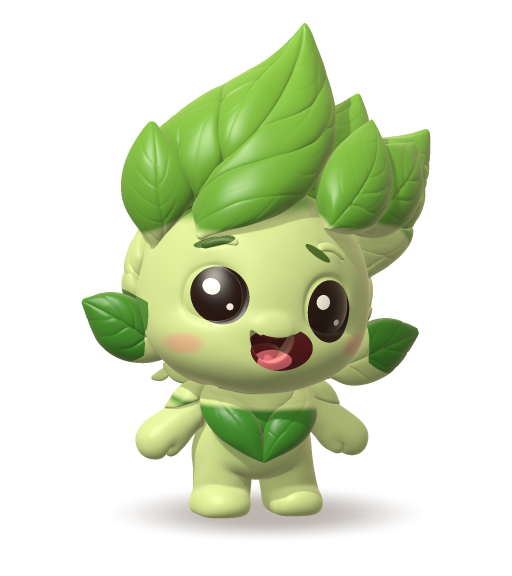
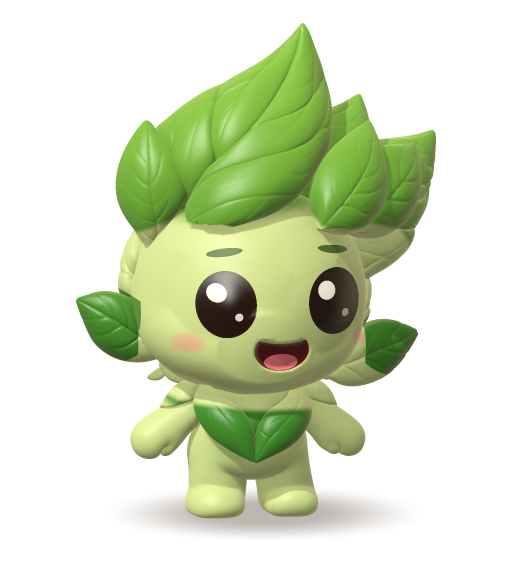
Leafling: replace the lopsided sculpted face with a level one
The owner's Meshy model has a crooked face (the left eye a third of an eye
higher and larger than the right, the features left of the head's center),
while the head and body are level. tools/artgen now smooths the sculpted
eyes, brows and mouth onto a quadratic fitted to the rest of the face, then
sculpts and paints a level face centered on the head: raised glossy eyes, a
recessed open smile with a tongue, short brows, and blush kept to the skin.
The render turn is 0.16 rad. Research R17 and the source record say so.

Claude-Session: https://claude.ai/code/session_01HvNa78eyNRkgpNa3EHmuvn

diff --git a/tools/artgen/Leafling.cs b/tools/artgen/Leafling.cs
@@ -22,7 +22,7 @@ namespace Bloomlings.ArtGen
 
         private static readonly V3 Key = new V3(-0.45, 0.7, 0.7).Normalized;
         private static readonly V3 Back = new V3(0.25, 0.45, -1).Normalized;
-        private static readonly Rotation Turn = new Rotation(0.22);
+        private static readonly Rotation Turn = new Rotation(0.16);
 
         /// <summary>The model file, relative to the repository root.</summary>
         public const string ModelPath = "tools/artgen/models/leafling.fbx";
@@ -143,8 +143,242 @@ namespace Bloomlings.ArtGen
                 model.N[i] = new V3(n.X, n.Z, -n.Y).Normalized;
             }
 
+            Reface(model);
             cached = model;
             return model;
+        }
+
+        // ---- The face ----
+        //
+        // The sculpted face is lopsided: Meshy put the left eye higher and larger than the right, and the eyes, brows and
+        // mouth left of the head's center, while the head and body are level. So the tool smooths the sculpted features
+        // away along the head's own curve and gives the Leafling a level face, centered on the head: two raised glossy
+        // eyes, a recessed open smile, short brows and blush (Paint draws their colors on the same places).
+
+        /// <summary>The old sculpted features (front view): eyes, mouth and brows, each smoothed away.</summary>
+        private static readonly (double X, double Y, double Rx, double Ry)[] OldFeatures =
+        {
+            (-0.145, 0.47, 0.07, 0.074),
+            (0.083, 0.432, 0.066, 0.08),
+            (-0.026, 0.36, 0.092, 0.064),
+            (-0.15, 0.577, 0.065, 0.035),
+            (0.06, 0.548, 0.058, 0.042),
+        };
+
+        /// <summary>The head's front (front view), where the smooth face surface is fitted.</summary>
+        private static readonly (double X, double Y, double Rx, double Ry) FaceArea = (-0.03, 0.45, 0.3, 0.19);
+
+        /// <summary>The new eyes: centers and radii (front view), mirrored about the head's center line x = 0.</summary>
+        private static readonly (double X, double Y, double Rx, double Ry)[] Eyes = { (-0.115, 0.452, 0.06, 0.068), (0.115, 0.452, 0.06, 0.068) };
+
+        private const double MouthX = 0;
+        private const double MouthY = 0.355;
+
+        /// <summary>Whether a point (front view) is inside the open mouth: a smile, flat-curved on top and round below.</summary>
+        private static bool InMouth(double x, double y) =>
+            Ellipse(x - MouthX, y - MouthY, 0.058, 0.042) < 1 && y < 0.37 + (3 * (x - MouthX) * (x - MouthX));
+
+        /// <summary>The new face's relief over the smooth head surface: raised eyes and a recessed mouth.</summary>
+        private static double Relief(double x, double y)
+        {
+            double z = 0;
+            foreach ((double ex, double ey, double rx, double ry) in Eyes)
+            {
+                double e = Ellipse(x - ex, y - ey, rx, ry);
+                if (e < 1)
+                {
+                    double k = 1 - (e * e);
+                    z += 0.012 * k * k;
+                }
+            }
+
+            // The mouth: recessed in its own smile shape, with soft edges.
+            double m = Ellipse(x - MouthX, y - MouthY, 0.058, 0.042);
+            double top = y - (0.37 + (3 * (x - MouthX) * (x - MouthX)));
+            if (m < 1.1 && top < 0.006)
+            {
+                z -= 0.014 * (1 - Sdf.Smoothstep(0.8, 1.1, m)) * (1 - Sdf.Smoothstep(-0.008, 0.006, top));
+            }
+
+            return z;
+        }
+
+        /// <summary>How much of a point (front view) lies on an old sculpted feature: 1 inside one, 0 clear of them all.</summary>
+        private static double OnOldFeature(double x, double y)
+        {
+            double w = 0;
+            foreach ((double fx, double fy, double rx, double ry) in OldFeatures)
+            {
+                w = Math.Max(w, 1 - Sdf.Smoothstep(1, 1.3, Ellipse(x - fx, y - fy, rx, ry)));
+            }
+
+            return w;
+        }
+
+        private static void Reface(Model m)
+        {
+            var vertexNormal = new V3[m.P.Length];
+            for (int i = 0; i < m.T.Length; i++)
+            {
+                vertexNormal[m.T[i]] = vertexNormal[m.T[i]] + m.N[i];
+            }
+
+            // The head's front as a height map: the front-most skin in 0.01 cells (one sample per cell, so dense areas do
+            // not outweigh sparse ones). A quadratic height z = f(x, y) is fitted to the cells of the face clear of the old
+            // features: the head is flattened in front and turned a little to its left, and the fit follows it.
+            const double cell = 0.01;
+            const int cols = 70;
+            const int rows = 40;
+            var front = new double[cols * rows];
+            Array.Fill(front, double.NegativeInfinity);
+            for (int i = 0; i < m.P.Length; i++)
+            {
+                V3 p = m.P[i];
+                int cx = (int)Math.Floor((p.X + 0.35) / cell);
+                int cy = (int)Math.Floor((p.Y - 0.25) / cell);
+                if (cx >= 0 && cy >= 0 && cx < cols && cy < rows && p.Z > 0 && Core(p) <= 0.01)
+                {
+                    front[(cy * cols) + cx] = Math.Max(front[(cy * cols) + cx], p.Z);
+                }
+            }
+
+            var ata = new double[6, 6];
+            var atb = new double[6];
+            var basis = new double[6];
+            for (int cy = 0; cy < rows; cy++)
+            {
+                for (int cx = 0; cx < cols; cx++)
+                {
+                    double z = front[(cy * cols) + cx];
+                    double x = -0.35 + ((cx + 0.5) * cell);
+                    double y = 0.25 + ((cy + 0.5) * cell);
+                    if (double.IsNegativeInfinity(z) || z < 0.1 || Ellipse(x - FaceArea.X, y - FaceArea.Y, FaceArea.Rx, FaceArea.Ry) > 1 || OnOldFeature(x, y) > 0)
+                    {
+                        continue;
+                    }
+
+                    Quadratic(x, y, basis);
+                    for (int a = 0; a < 6; a++)
+                    {
+                        atb[a] += basis[a] * z;
+                        for (int b = 0; b < 6; b++)
+                        {
+                            ata[a, b] += basis[a] * basis[b];
+                        }
+                    }
+                }
+            }
+
+            double[] q = Solve(ata, atb);
+            double Smooth(double x, double y)
+            {
+                Quadratic(x, y, basis);
+                double z = 0;
+                for (int a = 0; a < 6; a++)
+                {
+                    z += q[a] * basis[a];
+                }
+
+                return z;
+            }
+
+            // The face skin: the old features flattened onto the smooth surface, then the new relief added.
+            const double h = 0.002;
+            var moved = new V3?[m.P.Length];
+            for (int i = 0; i < m.P.Length; i++)
+            {
+                V3 p = m.P[i];
+                if (Ellipse(p.X - FaceArea.X, p.Y - FaceArea.Y, FaceArea.Rx, FaceArea.Ry) > 1.1 || Core(p) > 0.03 || p.Z < Smooth(p.X, p.Y) - 0.1)
+                {
+                    continue;
+                }
+
+                double w = OnOldFeature(p.X, p.Y);
+                double relief = Relief(p.X, p.Y);
+                if (w <= 0 && relief == 0)
+                {
+                    continue;
+                }
+
+                double smooth = Smooth(p.X, p.Y);
+                m.P[i] = new V3(p.X, p.Y, Sdf.Mix(p.Z, smooth, w) + relief);
+                var smoothNormal = new V3(-(Smooth(p.X + h, p.Y) - Smooth(p.X - h, p.Y)) / (2 * h), -(Smooth(p.X, p.Y + h) - Smooth(p.X, p.Y - h)) / (2 * h), 1).Normalized;
+                V3 n = V3.Mix(vertexNormal[i].Normalized, smoothNormal, w).Normalized;
+                double rx = (Relief(p.X + h, p.Y) - Relief(p.X - h, p.Y)) / (2 * h);
+                double ry = (Relief(p.X, p.Y + h) - Relief(p.X, p.Y - h)) / (2 * h);
+                moved[i] = (n - new V3(rx, ry, 0)).Normalized;
+            }
+
+            for (int i = 0; i < m.T.Length; i++)
+            {
+                if (moved[m.T[i]] is V3 normal)
+                {
+                    m.N[i] = normal;
+                }
+            }
+        }
+
+        /// <summary>The terms of a quadratic height in (x, y), centered on the face.</summary>
+        private static void Quadratic(double x, double y, double[] b)
+        {
+            double u = (x - FaceArea.X) / FaceArea.Rx;
+            double v = (y - FaceArea.Y) / FaceArea.Ry;
+            b[0] = 1;
+            b[1] = u;
+            b[2] = v;
+            b[3] = u * u;
+            b[4] = u * v;
+            b[5] = v * v;
+        }
+
+        /// <summary>Solves a small linear system by Gaussian elimination with partial pivoting.</summary>
+        private static double[] Solve(double[,] a, double[] b)
+        {
+            int n = b.Length;
+            var m = (double[,])a.Clone();
+            var r = (double[])b.Clone();
+            for (int col = 0; col < n; col++)
+            {
+                int pivot = col;
+                for (int row = col + 1; row < n; row++)
+                {
+                    if (Math.Abs(m[row, col]) > Math.Abs(m[pivot, col]))
+                    {
+                        pivot = row;
+                    }
+                }
+
+                for (int k = 0; k < n; k++)
+                {
+                    (m[col, k], m[pivot, k]) = (m[pivot, k], m[col, k]);
+                }
+
+                (r[col], r[pivot]) = (r[pivot], r[col]);
+                for (int row = col + 1; row < n; row++)
+                {
+                    double f = m[row, col] / m[col, col];
+                    for (int k = col; k < n; k++)
+                    {
+                        m[row, k] -= f * m[col, k];
+                    }
+
+                    r[row] -= f * r[col];
+                }
+            }
+
+            var x = new double[n];
+            for (int row = n - 1; row >= 0; row--)
+            {
+                double s = r[row];
+                for (int k = row + 1; k < n; k++)
+                {
+                    s -= m[row, k] * x[k];
+                }
+
+                x[row] = s / m[row, row];
+            }
+
+            return x;
         }
 
         /// <summary>Model space to view space: turned about the vertical, tilted 6° toward the viewer (z toward the camera).</summary>
@@ -152,6 +386,7 @@ namespace Bloomlings.ArtGen
         {
             (double x, double z) = Turn.Apply(p.X, p.Z);
             const double tilt = 0.105;
+
             double y = (p.Y * Math.Cos(tilt)) - (z * Math.Sin(tilt));
             double zz = (p.Y * Math.Sin(tilt)) + (z * Math.Cos(tilt));
             return new V3(x, y, zz);
@@ -361,25 +596,25 @@ namespace Bloomlings.ArtGen
             double gloss = Sdf.Mix(0.18, 0.3, leafiness);
 
             // The face: only on the front of the head (the mouth's inner surfaces face any way).
-            bool face = p.Z > 0.12 && p.Y > 0.25 && p.Y < 0.62;
+            bool face = p.Z > 0.05 && p.Y > 0.25 && p.Y < 0.62 && Ellipse(p.X - FaceArea.X, p.Y - FaceArea.Y, FaceArea.Rx, FaceArea.Ry) < 1.1;
             bool front = face && n.Z > 0.1;
             if (face)
             {
-                // Blush on the cheeks. The sculpted face is turned a little to its left, so its features are not mirrored.
-                foreach ((double cx, double cy) in new[] { (-0.215, 0.37), (0.15, 0.355) })
+                // Blush on the cheeks.
+                foreach (double sx in new[] { -1.0, 1.0 })
                 {
-                    double d = Ellipse(p.X - cx, p.Y - cy, 0.045, 0.03);
-                    c = V3.Mix(c, Sdf.Linear(1, 0.6, 0.6), front ? 0.55 * (1 - Sdf.Smoothstep(0.4, 1, d)) : 0);
+                    double d = Ellipse(p.X - (sx * 0.19), p.Y - 0.372, 0.042, 0.028);
+                    c = V3.Mix(c, Sdf.Linear(1, 0.6, 0.6), front ? 0.55 * (1 - Sdf.Smoothstep(0.4, 1, d)) * (1 - leafiness) : 0);
                 }
 
-                // Brows: the sculpted ridges above the eyes.
-                if (front && (Tilted(p.X + 0.15, p.Y - 0.577, 0.25, 0.04, 0.009) < 1 || Tilted(p.X - 0.06, p.Y - 0.551, -0.62, 0.032, 0.008) < 1))
+                // Short brows above the eyes, their outer ends a little lower.
+                if (front && (Tilted(p.X + 0.115, p.Y - 0.556, 0.15, 0.036, 0.008) < 1 || Tilted(p.X - 0.115, p.Y - 0.556, -0.15, 0.036, 0.008) < 1))
                 {
                     c = Sdf.Linear(0.3, 0.45, 0.18);
                 }
 
-                // Eyes: dark, with two highlights each.
-                foreach ((double cx, double cy, double rx, double ry) in new[] { (-0.145, 0.47, 0.055, 0.058), (0.083, 0.432, 0.05, 0.063) })
+                // Eyes: dark and glossy, with two highlights each (the light comes from the upper left).
+                foreach ((double cx, double cy, double rx, double ry) in Eyes)
                 {
                     double ex = p.X - cx;
                     double ey = p.Y - cy;
@@ -387,19 +622,19 @@ namespace Bloomlings.ArtGen
                     {
                         c = Sdf.Linear(0.16, 0.1, 0.08);
                         gloss = 0.45;
-                        if (Ellipse(ex + (rx * 0.32), ey - (ry * 0.32), rx * 0.3, rx * 0.3) < 1 || Ellipse(ex - (rx * 0.3), ey + (ry * 0.38), rx * 0.13, rx * 0.13) < 1)
+                        if (Ellipse(ex + (rx * 0.34), ey - (ry * 0.36), rx * 0.32, rx * 0.32) < 1 || Ellipse(ex - (rx * 0.38), ey + (ry * 0.36), rx * 0.14, rx * 0.14) < 1)
                         {
                             c = new V3(1, 1, 1);
                         }
                     }
                 }
 
-                // The open smiling mouth, under its curved upper lip, with a tongue.
-                if (Ellipse(p.X + 0.024, p.Y - 0.36, 0.066, 0.044) < 1 && p.Y < 0.386 + (5 * (p.X + 0.03) * (p.X + 0.03)))
+                // The open smile, with a tongue.
+                if (InMouth(p.X, p.Y))
                 {
                     c = Sdf.Linear(0.36, 0.1, 0.12);
                     gloss = 0.1;
-                    if (Ellipse(p.X + 0.04, p.Y - 0.337, 0.036, 0.019) < 1)
+                    if (Ellipse(p.X - MouthX, p.Y - (MouthY - 0.024), 0.036, 0.017) < 1)
                     {
                         c = Sdf.Linear(0.95, 0.47, 0.53);
                     }

diff --git a/specs/004-character-art/research.md b/specs/004-character-art/research.md
@@ -289,7 +289,13 @@ The owner asked to try a model made with Meshy AI (an FBX file) in the game, as 
   cannot load FBX files.
 - **Source.** `tools/artgen/models/leafling.fbx`, read by a minimal binary FBX reader (`Fbx.cs`: vertices, polygons,
   normals). It has no texture or colors, so `Leafling.cs` paints it: pale green skin on a body core of ellipsoids and
-  capsules, green leaves elsewhere, and eyes, mouth, brows and blush as decals measured on the sculpted face. It
+  capsules, and green leaves elsewhere.
+- **A level face.** The sculpted face is lopsided: Meshy put the left eye about a third of an eye higher and larger
+  than the right, and the eyes, brows and mouth left of the head's center, while the head and body are level (the
+  owner asked why the face looked crooked, 2026-10-02). The tool smooths the sculpted features onto a quadratic fitted
+  to the rest of the face (the head is flattened in front and turned a little to its left), then sculpts and paints a
+  level face centered on the head: raised glossy eyes at x = ±0.115, a recessed open smile with a tongue, short brows
+  and blush. The render turn is 0.16 rad. It
   rasterizes 660 thousand triangles at 3 × 3 samples per pixel with a soft shadow map, screen-space ambient occlusion
   and the heroes' warm key and golden back light (about 5 seconds).
 - **Where.** Home only, as a guest: early on beside the group's pedestal (the group takes the left 80% of the stage),

diff --git a/tools/artgen/models/leafling.md b/tools/artgen/models/leafling.md
@@ -6,7 +6,7 @@
 | Original name | `Meshy_AI_Leafling_1001214215_generate.fbx` |
 | Made by | the project owner, with Meshy AI (meshy.ai), on 2026-10-01; exported through Meshy's Blender FBX writer |
 | Content | one sculpted mesh (329,940 vertices, 659,956 triangles) with normals; no texture, UV, material color, rig or animation |
-| Used as | `client/Assets/Bloomlings/Art/Experiments/Resources/Characters/experiments/leafling.png`, painted and rendered by `tools/artgen` (`Leafling.cs`): skin and leaf colors, eyes, mouth, brows and blush are added by the tool |
+| Used as | `client/Assets/Bloomlings/Art/Experiments/Resources/Characters/experiments/leafling.png`, painted and rendered by `tools/artgen` (`Leafling.cs`): skin and leaf colors are added by the tool, and the lopsided sculpted face (eyes at different heights, shifted left) is smoothed away and replaced by a level face the tool sculpts and paints |
 | Where it shows | Home only, as a pre-rendered flat picture (constitution VII): beside the group early on, beside the player's hero later |
 | Licence | Meshy's terms for the owner's Meshy plan. **To confirm by the owner before any release:** on a paid plan the owner holds the rights to the output; on the free plan Meshy outputs are shared under CC BY 4.0, which needs a credit to Meshy. |
 | Status | experiment (spec 004 research R17); not part of the project's own art (`tools/artgen/OWNERSHIP.md`) |
